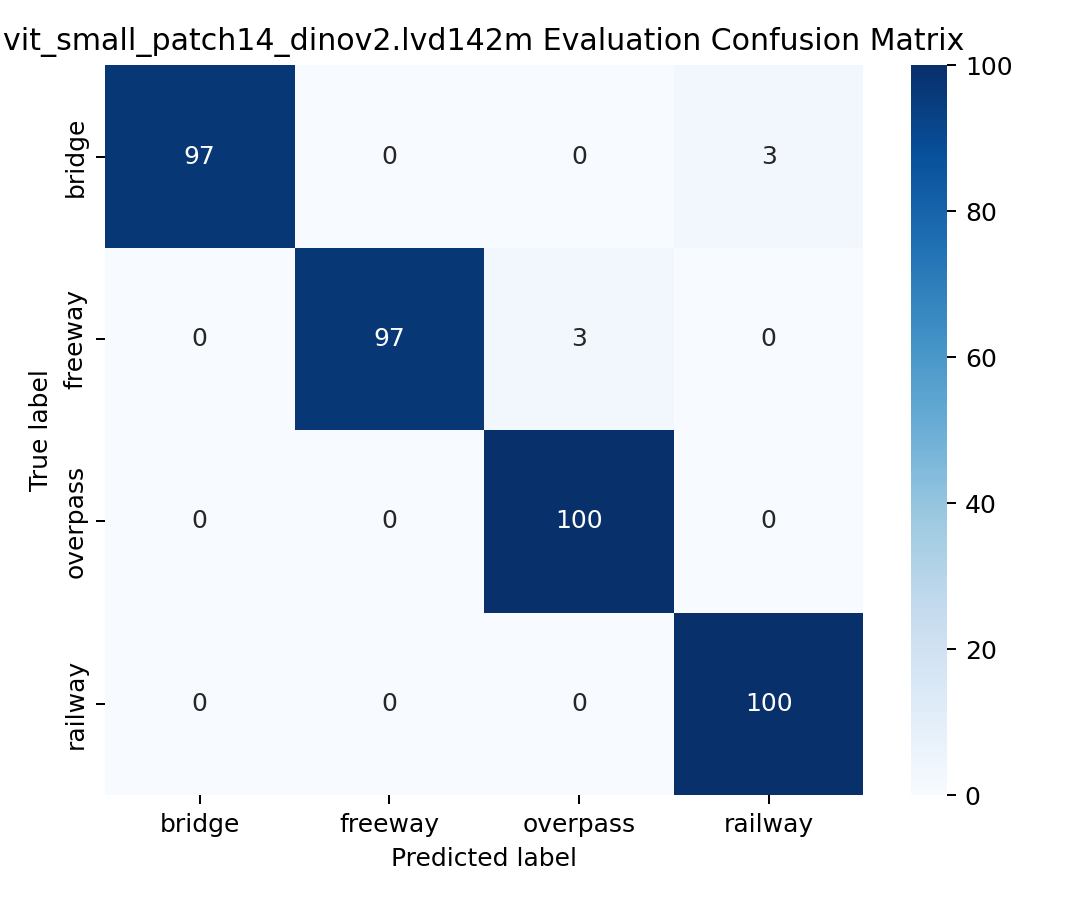
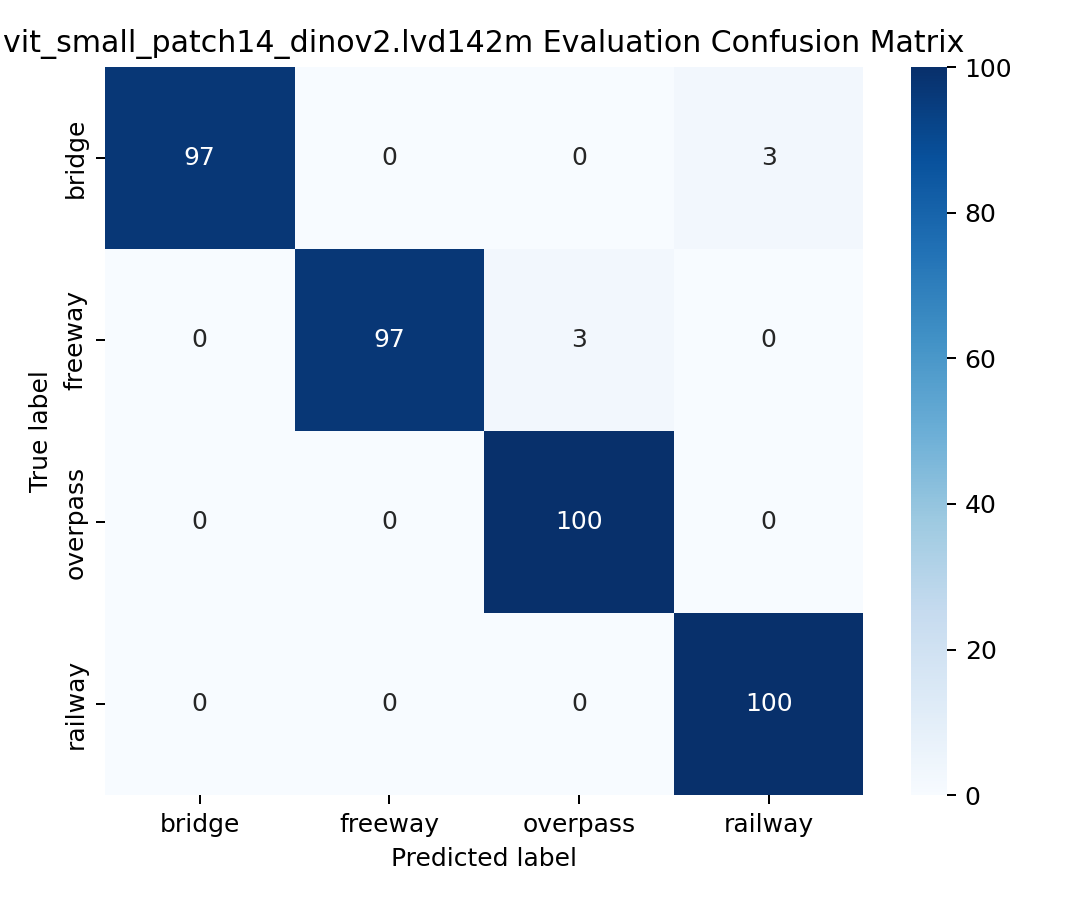
Normalize DINOv2 evaluation report folders

diff --git a/experiments/results-log.md b/experiments/results-log.md
@@ -6,6 +6,17 @@ Use this file to track every meaningful experiment. Add one row per model run.
 | --- | --- | --- | --- | --- | --- | --- | ---: | ---: | ---: | ---: | ---: | ---: | ---: | --- |
 | EXP-001 | 2026-05-31 | Joshua | ResNet18 frozen feature extractor | 224x224 | None | AdamW | 0.001 | 32 | 10 | 0.9946 | 0.9947 | 0.9946 | 0.9946 | First no-augmentation transfer-learning baseline |
 | EXP-002 | 2026-06-03 | William | FocalNet-Tiny SRF (timm focalnet_tiny_srf.ms_in1k, pretrained) | 224x224 | RandomResizedCrop+flips+rotation+colorjitter | AdamW | 3e-5 | 16 | 6 of 20 (early stop) | 0.9950 | 0.9951 | 0.9950 | 0.9950 | Notebook-first run (notebooks/06). Held-out data/raw/val; internal 80/20 tune split; tune macro-F1=1.0 by epoch 1; 2 bridge->overpass errors. Artifacts in reports/focalnet_tiny_srf_notebook_eval/ |
+| EXP-003 | 2026-06-12 | William | ResNet18 frozen feature extractor (retrained current raw split) | 224x224 | None | AdamW | 0.001 | 32 | 10 | 0.9825 | 0.9836 | 0.9825 | 0.9826 | Retrained against current `data/raw/train` + `data/raw/val` layout after legacy manifest path mismatch fix. Checkpoint: `model/resnet18_frozen.pt`; eval/benchmark in `reports/quantization/resnet18_fp32_cpu/`. |
+| EXP-004 | 2026-06-12 | William | Swin-Tiny (timm swin_tiny_patch4_window7_224, pretrained) | 224x224 | RandomResizedCrop+flips+rotation+colorjitter | AdamW | 3e-5 | 16 | 6 of 20 (early stop) | 0.9975 | 0.9975 | 0.9975 | 0.9975 | Fresh held-out eval from `model/swin_tiny/best_model.pt`. Artifacts in `reports/swin_tiny_fresh_eval/`. |
+| EXP-005 | 2026-06-12 | William | DINOv2-S/14 linear probe (timm vit_small_patch14_dinov2.lvd142m, pretrained backbone) | 224x224 | RandomResizedCrop+flips+rotation+colorjitter | AdamW | 0.001 | 16 | 7 of 10 (early stop) | 0.9850 | 0.9854 | 0.9850 | 0.9850 | Held-out eval from `model/vit_small_patch14_dinov2_lvd142m_linear_probe/best_model.pt`. Artifacts in `reports/vit_small_patch14_dinov2_lvd142m_linear_probe_eval/`. |
+| EXP-006 | 2026-06-12 | William | DINOv2-S/14 full fine-tune (timm vit_small_patch14_dinov2.lvd142m, pretrained) | 224x224 | RandomResizedCrop+flips+rotation+colorjitter | AdamW | 3e-5 | 16 | 8 of 20 (early stop) | 0.9975 | 0.9975 | 0.9975 | 0.9975 | Held-out eval from `model/vit_small_patch14_dinov2_lvd142m_finetune/best_model.pt`. Artifacts in `reports/vit_small_patch14_dinov2_lvd142m_eval/`. |
+| EXP-007 | 2026-06-12 | William | ResNet18 static INT8 PTQ | 224x224 | None | N/A | N/A | 32 | N/A | 0.9825 | 0.9836 | 0.9825 | 0.9826 | CPU PTQ result from `model/resnet18_frozen.pt`; latency improved from 0.1613s/batch (FP32 CPU) to 0.0254s/batch; size 44.8 MB -> 11.3 MB. Artifacts in `reports/quantization/resnet18_int8/`. |
+| EXP-008 | 2026-06-12 | William | FocalNet-Tiny SRF FP16 export | 224x224 | Inference-only | N/A | N/A | 32 | N/A | 0.9950 | 0.9951 | 0.9950 | 0.9950 | Safe transformer efficiency result. CUDA latency 0.0227s/batch -> 0.0131s/batch; size 332.2 MB -> 276.9 MB. Exported checkpoint: `reports/quantization/focalnet_fp16/focalnet_tiny_srf_fp16.pt`. |
+| EXP-009 | 2026-06-12 | William | Swin-Tiny FP16 export | 224x224 | Inference-only | N/A | N/A | 32 | N/A | 0.9975 | 0.9975 | 0.9975 | 0.9975 | CUDA latency 0.0279s/batch -> 0.0109s/batch; size 330.5 MB -> 275.4 MB. Exported checkpoint: `reports/quantization/swin_tiny_fp16/swin_tiny_fp16.pt`. |
+| EXP-010 | 2026-06-12 | William | DINOv2-S/14 linear probe FP16 export | 224x224 | Inference-only | N/A | N/A | 32 | N/A | 0.9850 | 0.9854 | 0.9850 | 0.9850 | CUDA latency 0.0221s/batch -> 0.0076s/batch; size 86.6 MB -> 43.3 MB. Exported checkpoint: `reports/quantization/dinov2_linear_probe_fp16/dinov2_linear_probe_fp16.pt`. |
+| EXP-011 | 2026-06-12 | William | DINOv2-S/14 full fine-tune FP16 export | 224x224 | Inference-only | N/A | N/A | 32 | N/A | 0.9975 | 0.9975 | 0.9975 | 0.9975 | CUDA latency 0.0236s/batch -> 0.0085s/batch; size 259.8 MB -> 216.5 MB. Exported checkpoint: `reports/quantization/dinov2_finetune_fp16/dinov2_finetune_fp16.pt`. |
+| EXP-012 | 2026-06-12 | William | Swin-Tiny dynamic INT8 linear-layer quantization | 224x224 | Inference-only | N/A | N/A | 32 | N/A | 0.9950 | 0.9951 | 0.9950 | 0.9950 | Exploratory CPU-only dynamic quantization of 52 linear modules. Size 330.5 MB -> 29.1 MB; latency 0.5549s/batch (FP32 CPU) -> 0.3499s/batch; macro-F1 drop about 0.25 percentage points. Artifact: `reports/quantization/swin_tiny_dynamic_int8/best_model_dynamic_int8.pt`. |
+| EXP-013 | 2026-06-12 | William | DINOv2-S/14 full fine-tune dynamic INT8 linear-layer quantization | 224x224 | Inference-only | N/A | N/A | 32 | N/A | 0.9975 | 0.9975 | 0.9975 | 0.9975 | Exploratory CPU-only dynamic quantization of 49 linear modules. Size 259.8 MB -> 23.0 MB, but latency regressed from 0.4805s/batch (FP32 CPU) to 0.6089s/batch, so this is not a keep recommendation. Artifact: `reports/quantization/dinov2_finetune_dynamic_int8/best_model_dynamic_int8.pt`. |
 
 ## Rules
 